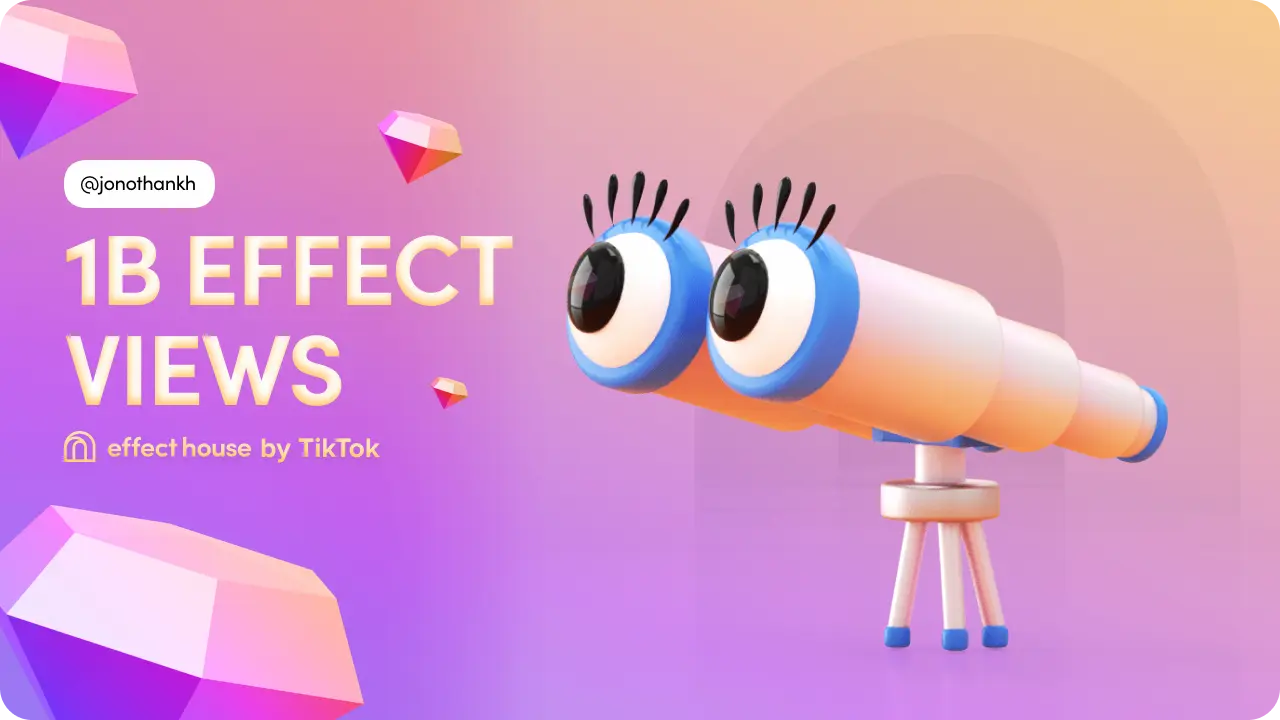
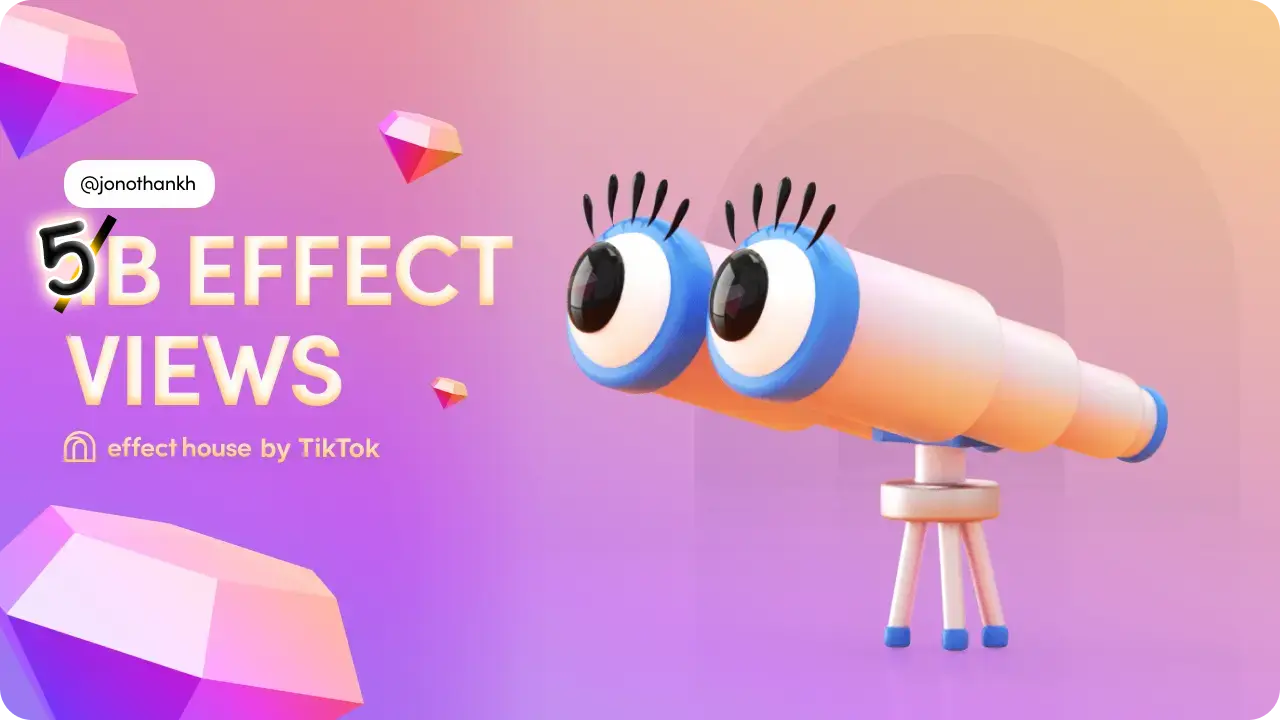
Update site

Changed region(s): [[0.0, 0.275, 0.0938, 0.4278]]

diff --git a/src/data/projects.js b/src/data/projects.js
@@ -1,29 +1,40 @@
 const projects = [
     {
-        tags: ["Live"],
-        image: "tiktok_live_supermarket_scan.webp",
-        title: "How I built the supermarket scan TikTok game",
-        description: "Live with Celine in the Effect House team.",
-        links: {
-            "Watch on YouTube": "https://youtu.be/6vYkZmNvDEg"
-        }
-    },
-    {
         tags: ["Social AR"],
         image: "tiktok_effect_house.webp",
         title: "TikTok Effect House gallery",
-        description: "My AR effects on TikTok have reached over 1 billion views!",
+        description: "My AR effects on TikTok have reached over 5 billion views!",
         links: {
-            "My TikTok": "https://www.tiktok.com/@jonothanhunt"
+            "Visit my TikTok": "https://www.tiktok.com/@jonothanhunt"
+        }
+    },
+    {
+        tags: ["Campaign", "Site"],
+        image: "waiting_to_live.webp",
+        title: "'Waiting to Live' organ donation campaign",
+        description: "Listen to the stories of the children waiting and learn how to register.",
+        links: {
+            "Visit site": "https://waitingtolive.org/",
+            "Visit NHS Organ Donation": "https://www.organdonation.nhs.uk/",
+            "Watch ITV coverage on LinkedIn": "https://www.linkedin.com/posts/wunderman-thompson-uk_you-might-not-know-anything-is-wrong-with-activity-7133784274591215616-arGg",
         }
     },
     {
         tags: ["Electronics", "Raspberry Pi"],
         image: "inky_draw.webp",
         title: "Inky Draw",
-        description: "A fun drawing web app that syncs with an InkyPhat via a Python Flask API.",
+        description: "A fun drawing React app that syncs with an InkyPhat via a Python Flask API.",
         links: {
             "Inky Draw on Github": "https://github.com/jonothanhunt/inky-draw/tree/main"
+        }
+    },
+    {
+        tags: ["Live"],
+        image: "tiktok_live_supermarket_scan.webp",
+        title: "How I built the supermarket scan TikTok game",
+        description: "Live with Celine in the Effect House team.",
+        links: {
+            "Watch on YouTube": "https://youtu.be/6vYkZmNvDEg"
         }
     },
     {

diff --git a/src/components/experience/Stickers.jsx b/src/components/experience/Stickers.jsx
@@ -41,7 +41,7 @@ const Stickers = (props) =>
 
             <Float {...floatConfig}>
                 <mesh position={[-3, 4, 0]} rotation={[0, 0, .7]} onClick={() => window.open("https://www.tiktok.com/@jonothanhunt", "_blank")} onPointerOver={() => setHovered(true)} onPointerOut={() => setHovered(false)} >
-                    <planeGeometry args={[3, 3, 1, 1]} />
+                    <planeGeometry args={[4, 4, 1, 1]} />
                     <meshBasicMaterial color={'#ffebfa'} map={EffectHouseLogo} alphaTest={0.5} transparent={false} />
                 </mesh>
             </Float>

diff --git a/src/components/experience/Experience.jsx b/src/components/experience/Experience.jsx
@@ -76,7 +76,6 @@ function TransformGroup(props)
     transformGroup.current.rotation.y = smoothedMouseX * 0.01
     transformGroup.current.rotation.z = - smoothedWindowScrollY * 0.0005
 
-    // transformGroup.current.position.y = ((smoothedWindowScrollY * 0.02) * (viewport.height / viewport.width) * 2) + Math.min(5 - (width / 13), 5)
     transformGroup.current.position.y = (smoothedWindowScrollY * 0.02) + Math.max(((viewport.height / viewport.width) * 1.8), 2)
 
     // SCALE
